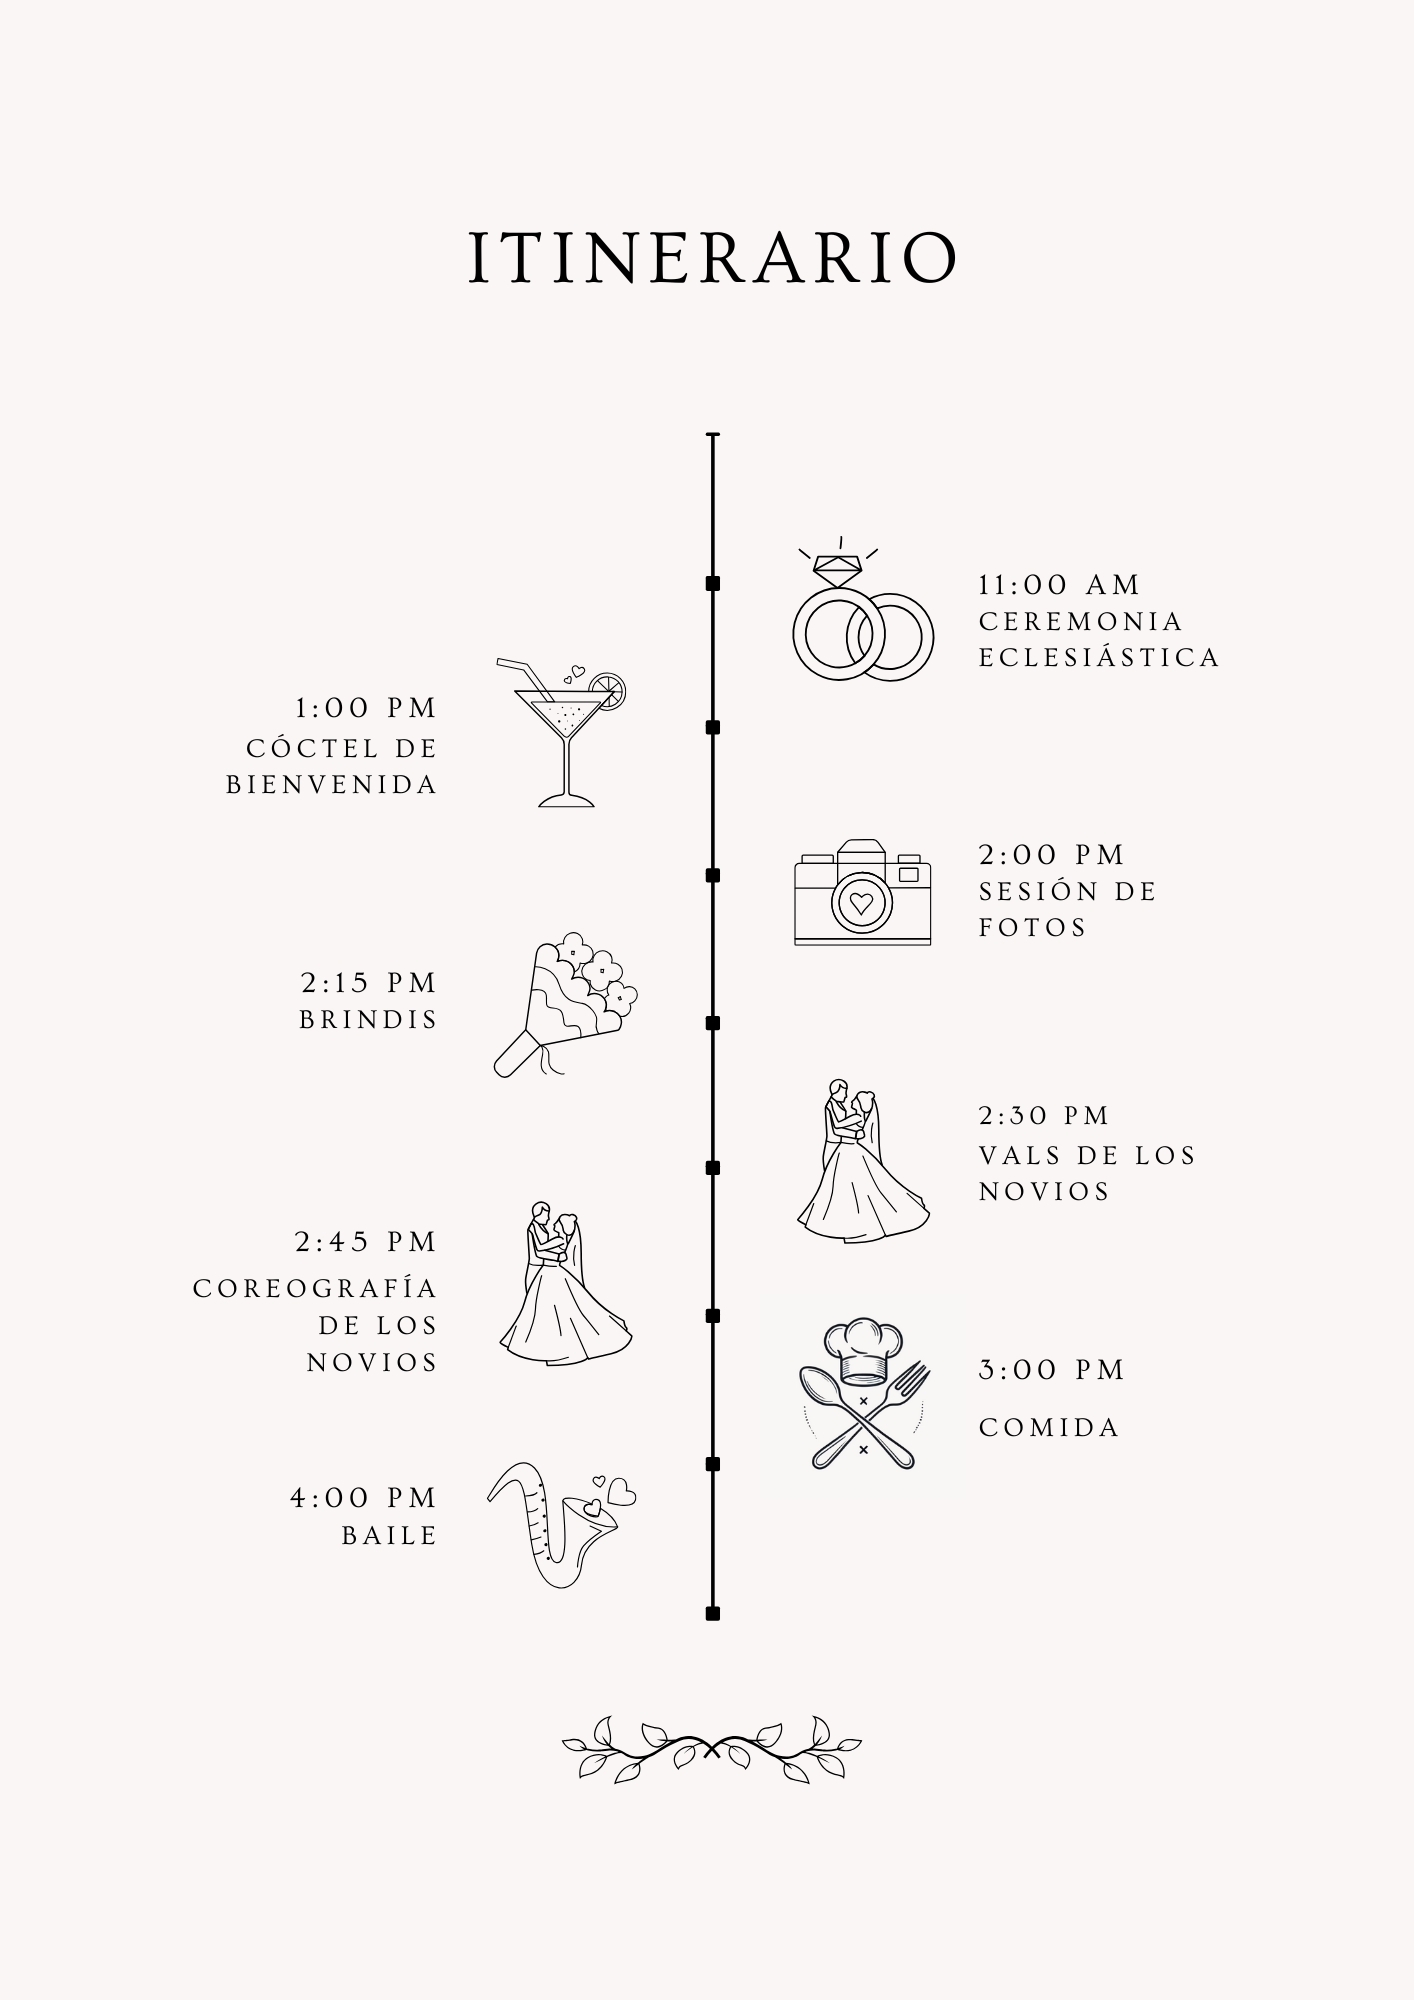
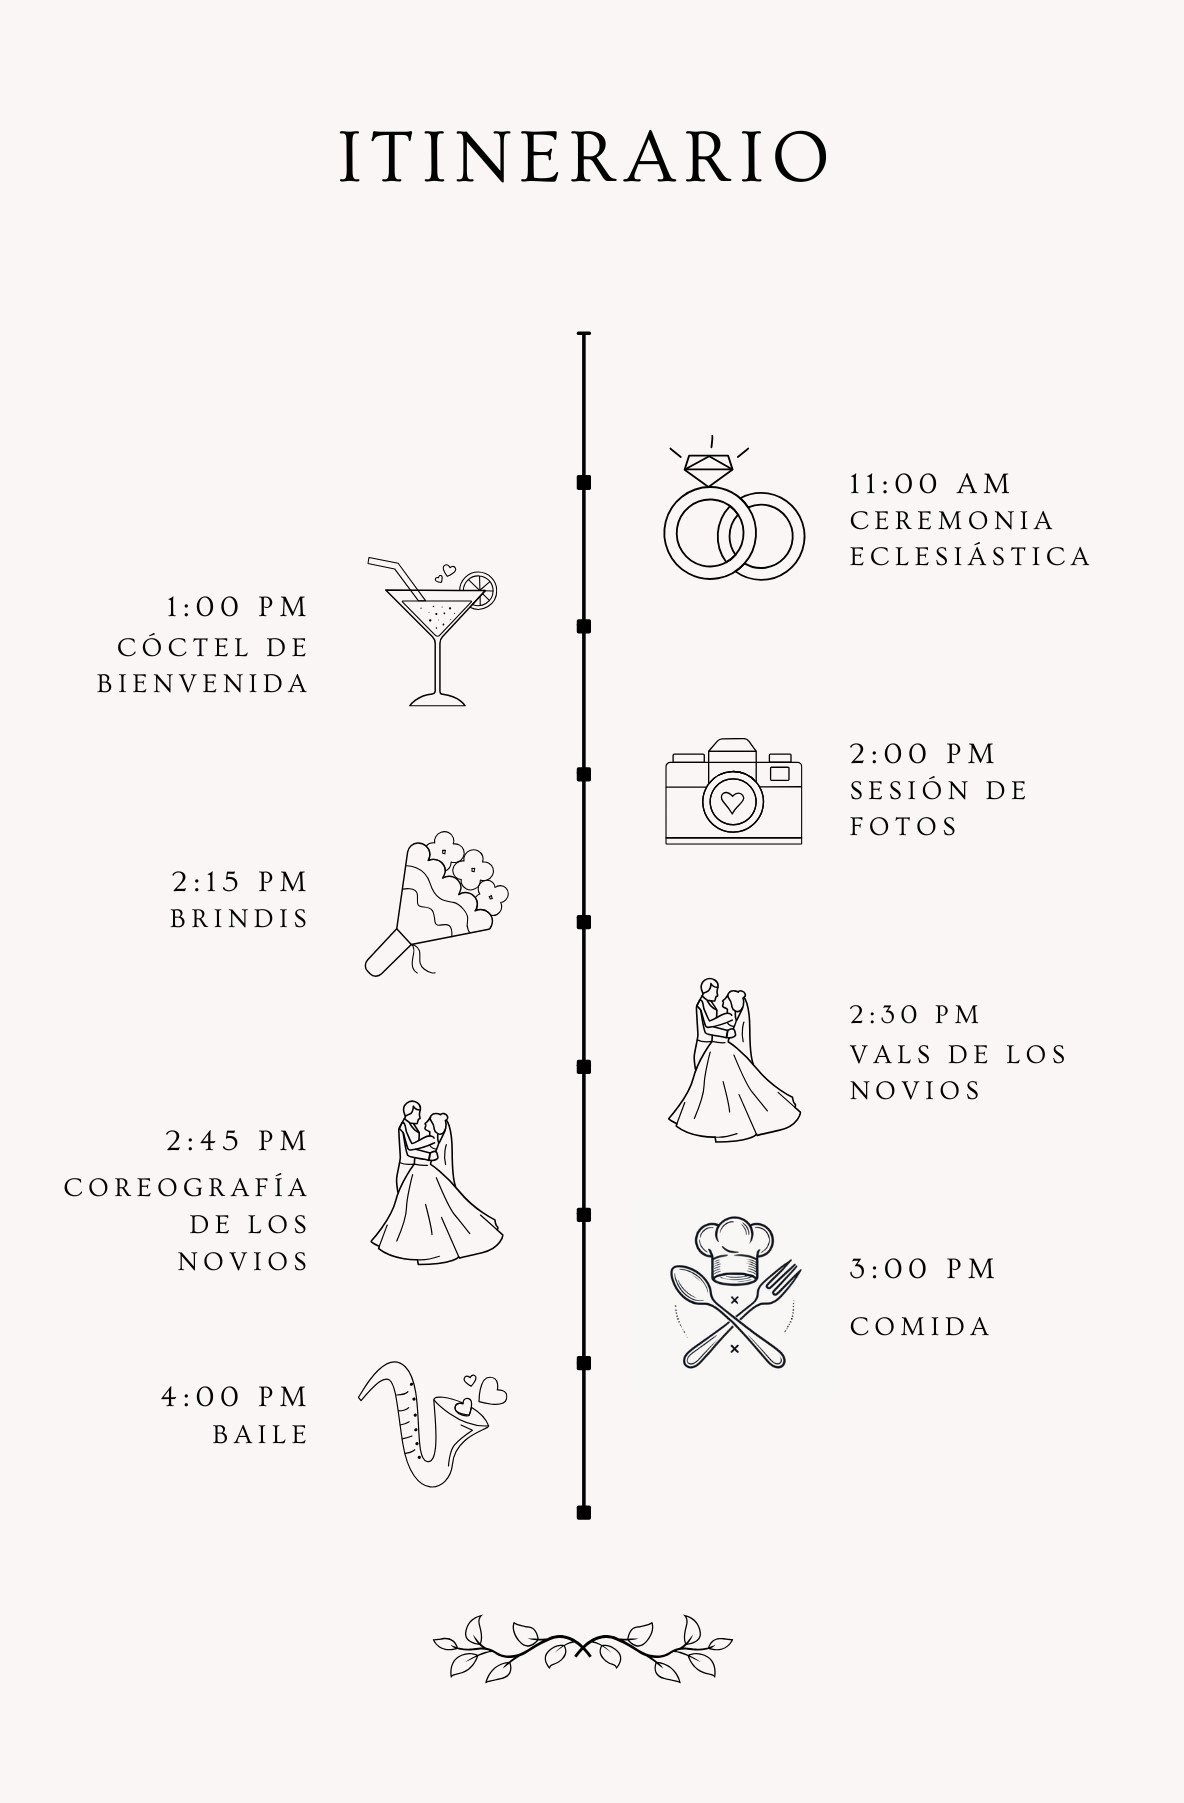
Mejora en los diseños para Gallery, Itinerario se cortó la imagen para que se vea más grande, passport section se quitó un div y clase de css innecesaria, en confirm attendance se aumento el fontsize

diff --git a/boda_nicole_ro/src/components/Itinerary/Itinerary.module.css b/boda_nicole_ro/src/components/Itinerary/Itinerary.module.css
@@ -1,18 +1,61 @@
 .itineraryContainer {
+  position: relative;
   text-align: center;
   padding: 50px 20px;
   background-color: #f9f9f9;
 
-  /* padding: 50px 20px; */
   background-color: var(--color-bg-general);
 
   /* Estilos para ocupar toda la pantalla y centrar el contenido verticalmente */
   min-height: 100vh;
-  /* Ocupa toda la pantalla */
   display: flex;
   flex-direction: column;
   justify-content: center;
   align-items: center;
+}
+
+.sliderBackground {
+  position: absolute;
+  top: 8%;
+  left: 0;
+  width: 100%;
+  /* Puedes ajustar el ancho deseado */
+  height: 450px;
+  /* Ajusta la altura deseada para el slider */
+  z-index: 0;
+  /* Se coloca detrás del contenido */
+
+  background-image: url('../../assets/images/backgrounds/continents.png');
+  /* Reemplaza con la ruta de tu imagen */
+  background-repeat: repeat-x;
+  /* Repite la imagen horizontalmente */
+  background-size: auto;
+  /* O usa 'cover' o 'contain' según prefieras */
+
+  /* Animación para deslizar el fondo */
+  animation: slideBg 60s linear infinite;
+}
+
+@keyframes slideBg {
+  from {
+    background-position: 0 0;
+  }
+
+  to {
+    background-position: -100% 0;
+  }
+}
+
+.content {
+  position: relative;
+  z-index: 1;
+  display: flex;
+  flex-direction: column;
+  justify-content: center;
+  align-items: center;
+
+  /* Se muestra por encima del slider de fondo */
+  width: 100%;
 }
 
 .title {
@@ -24,8 +67,8 @@
 }
 
 .text {
-  width: 400px;
-  font-size: 1rem;
+  width: 450px;
+  font-size: 1.5rem;
   color: var(--color-title);
   font-family: var(--font-simple);
   text-transform: uppercase;

diff --git a/boda_nicole_ro/src/components/PassportSection/PassportSection.jsx b/boda_nicole_ro/src/components/PassportSection/PassportSection.jsx
@@ -5,14 +5,12 @@ import logoNovios from '../../assets/images/logo/logo-circle.png';
 const PassportSection = () => {
   return (
     <section className={styles.passportContainer}>
-      <div className={styles.content1}>
-        <div className={styles.sliderBackground} />
-        <div className={styles.content}>
-          <img className={styles.imageContainer} src={logoNovios} alt="Logo Novios" />
-          <h1 className={styles.title}>Pasaporte</h1>
-          <h2 className={styles.h3}>A la boda de</h2>
-          <h2 className={styles.subtitle}>Nicole & Diego</h2>
-        </div>
+      <div className={styles.sliderBackground} />
+      <div className={styles.content}>
+        <img className={styles.imageContainer} src={logoNovios} alt="Logo Novios" />
+        <h1 className={styles.title}>Pasaporte</h1>
+        <h2 className={styles.h3}>A la boda de</h2>
+        <h2 className={styles.subtitle}>Nicole & Diego</h2>
       </div>
     </section>
   );

diff --git a/boda_nicole_ro/src/components/Itinerary/Itinerary.jsx b/boda_nicole_ro/src/components/Itinerary/Itinerary.jsx
@@ -5,12 +5,16 @@ import itineraryImage from '../../assets/images/itinerario/Itinerario.jpg'; // R
 const Itinerary = () => {
   return (
     <section className={styles.itineraryContainer}>
-      <h2 className={styles.title}>Itinerario</h2>
-      <p className={styles.text}>Aquí tienes el plan de nuestro gran día. ¡Esperamos que lo disfrutes!</p>
+      <div className={styles.sliderBackground} />
+      <div className={styles.content}>
+        <h2 className={styles.title}>Itinerario</h2>
+        <p className={styles.text}>Aquí tienes el plan de nuestro gran día. ¡Esperamos que lo disfrutes!</p>
 
-      <div className={styles.imageContainer}>
-        <img src={itineraryImage} alt="Itinerario de la boda" className={styles.itineraryImage} />
+        <div className={styles.imageContainer}>
+          <img src={itineraryImage} alt="Itinerario de la boda" className={styles.itineraryImage} />
+        </div>
       </div>
+
     </section>
   );
 };

diff --git a/boda_nicole_ro/src/components/Gallery/Gallery.jsx b/boda_nicole_ro/src/components/Gallery/Gallery.jsx
@@ -11,10 +11,13 @@ const Gallery = () => {
       <p className={styles.text}>
         El día de la boda toma muchas fotos y déjanos un bonito y divertido recuerdo haciendo click en el ícono de la cámara de fotos!
       </p>
-
-      <a href={googleDriveLink} target="_blank" rel="noopener noreferrer" className={styles.confirmButton} onClick={console.log("Copiado!")}>
-        <img className={styles.cameraIcon} src={cameraIcon} alt="Icono Cámara" />
-      </a>
+      <div className={styles.buttonContainer}>
+        <div className={styles.buttonBox}>
+          <a href={googleDriveLink} target="_blank" rel="noopener noreferrer" className={styles.confirmButton} onClick={console.log("Copiado!")}>
+            <img className={styles.cameraIcon} src={cameraIcon} alt="Icono Cámara" />
+          </a>
+        </div>
+      </div>
     </section>
   );
 };

diff --git a/boda_nicole_ro/src/components/Gallery/Gallery.module.css b/boda_nicole_ro/src/components/Gallery/Gallery.module.css
@@ -33,6 +33,24 @@
   margin-bottom: 40px;
 }
 
+/* Contenedor flexible para las cuentas */
+.buttonContainer {
+  display: flex;
+  /* Por defecto, en móviles será vertical */
+  align-items: center;
+}
+
+/* Estilos para cada cuenta bancaria */
+.buttonBox {
+  background-color: white;
+  padding: 10px 15px;
+  width: 100%;
+  max-width: 350px;
+  border-radius: 32%;
+  box-shadow: 0 2px 10px rgba(0, 0, 0, 0.1);
+  text-align: center;
+}
+
 .confirmButton {
   /* background-color: var(--color-bg-general); */
   cursor: pointer;

diff --git a/boda_nicole_ro/src/components/PassportSection/PassportSection.module.css b/boda_nicole_ro/src/components/PassportSection/PassportSection.module.css
@@ -14,10 +14,6 @@
   /* Evita que el fondo se desborde */
 }
 
-.content1 {
-  /* margin-top: 20px; */
-}
-
 /* Slider de fondo: se mueve de derecha a izquierda de forma lenta */
 .sliderBackground {
   position: absolute;

diff --git a/boda_nicole_ro/src/components/ConfirmAttendance/ConfirmAttendance.module.css b/boda_nicole_ro/src/components/ConfirmAttendance/ConfirmAttendance.module.css
@@ -24,7 +24,7 @@
 .invitationText {
   font-family: var(--font-cormorant-garamond);
   font-style: italic;
-  font-size: 1.5rem;
+  font-size: 2rem;
   width: 250px;
 }
 
